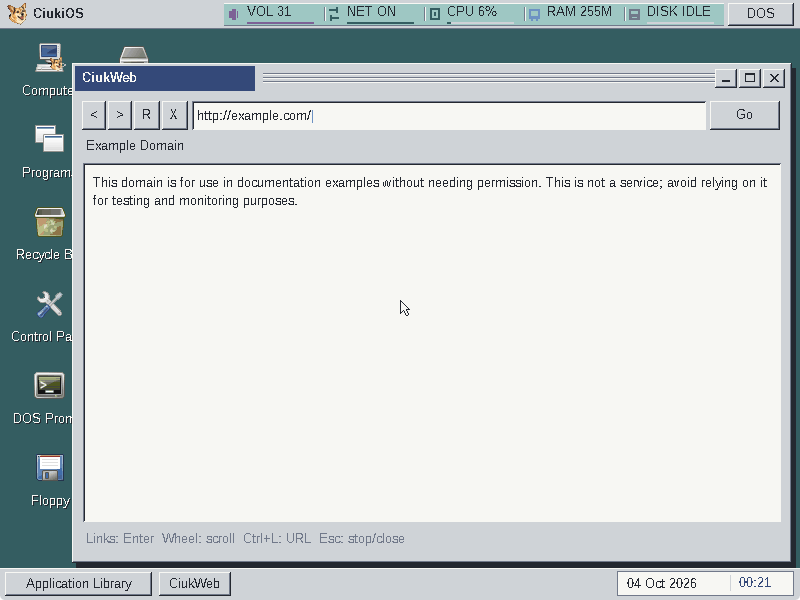
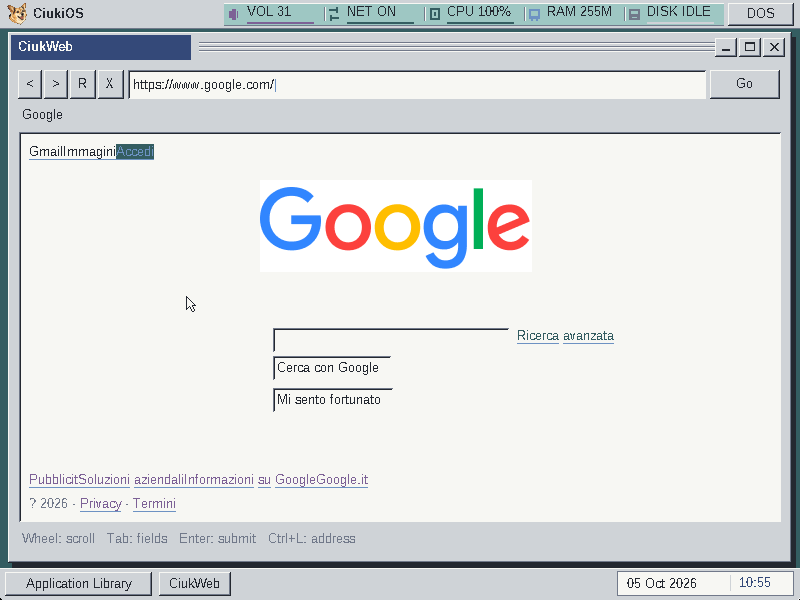
docs: update README screenshot showcase with CiukWeb HTTPS, mouse schemes, and dynamic window titles

diff --git a/docs/screenshots/0.8.3/README.md b/docs/screenshots/0.8.3/README.md
@@ -8,17 +8,12 @@ no artwork, screens or responses were generated or substituted.
 - `desktop.png`: initial desktop after closing the default About page.
 - `about.png`: separate About/Credits tabs and the inverse "Don't show this at
   startup" checkbox; see the [startup/focus verification](../../validation/2026-10-04-about-startup-focus.md).
+- `display.png`: detected virtual adapter and monitor, mode list.
+- `web.png`: CiukWeb loading Google over HTTPS (TLS 1.2 with BearSSL), demonstrating HTTP parsing, layout, and image decoding.
 - `mouse-scheme.png`: Control Panel Mouse applet showing cursor scheme selection (Tango Default, Classic 95, 3D Contrast) and live cursor preview.
 - `window-title.png`: Dynamic window title tab wrapping long document titles seamlessly, bounded before window controls and transitioning into platinum pinstripe rails.
-- `display.png`: detected virtual adapter and monitor, mode list.
-- `web.png`: earlier text-only DNS/HTTP response from example.com. It does not
-  demonstrate the newly implemented HTML subset or PNG/GIF/JPEG image path.
 - `doom.png`: a new game using the owner's local DOS Doom installation.
 
 Doom data is not redistributed. These still images do not measure frame pacing,
 physical mouse operation, physical ATI/NVIDIA support or Windows execution.
 See the [runtime report](../../validation/2026-10-04-release-runtime/README.md).
-The web capture predates the HTML/image integration changes. A
-replacement 1280×800 CiukWeb capture using local HTML and PNG/GIF/JPEG fixtures
-will be added after the integration test; this screenshot set makes no claim
-that a public site served or rendered images.

diff --git a/README.md b/README.md
@@ -20,9 +20,13 @@ the dog in the boot splash. Its identity uses the owner's
 | --- | --- |
 | ![About CiukiOS](docs/screenshots/0.8.3/about.png) | ![Display Properties](docs/screenshots/0.8.3/display.png) |
 
-| Ciuki Web | A DOS game in its own window |
+| CiukWeb with HTTPS and images | A DOS game in its own window |
 | --- | --- |
-| ![Ciuki Web](docs/screenshots/0.8.3/web.png) | ![Doom in a DOS window](docs/screenshots/0.8.3/doom.png) |
+| ![CiukWeb with HTTPS](docs/screenshots/0.8.3/web.png) | ![Doom in a DOS window](docs/screenshots/0.8.3/doom.png) |
+
+| Pointer scheme settings and preview | Dynamic window titles and CiukNote |
+| --- | --- |
+| ![Pointer schemes in Control Panel](docs/screenshots/0.8.3/mouse-scheme.png) | ![Dynamic window titles](docs/screenshots/0.8.3/window-title.png) |
 
 These are actual Linux QEMU captures. [Capture details and validation limits](docs/screenshots/0.8.3/README.md).
 
